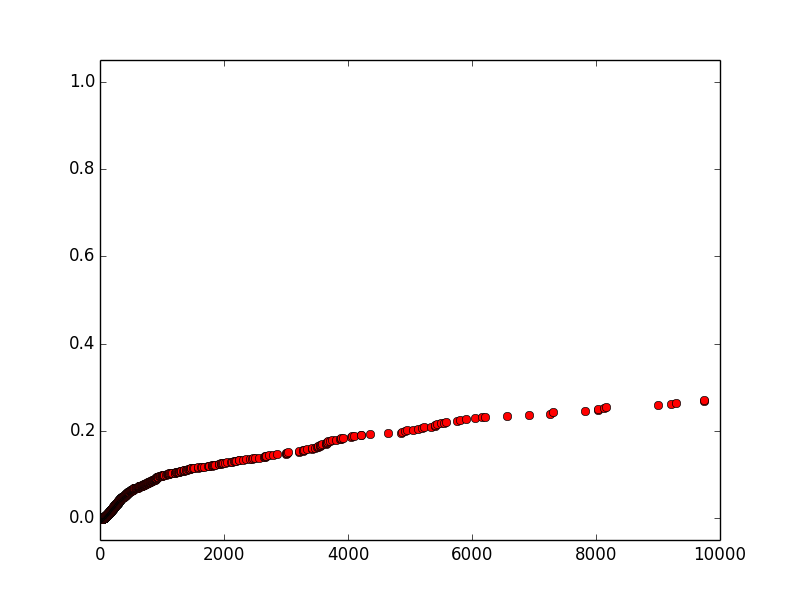
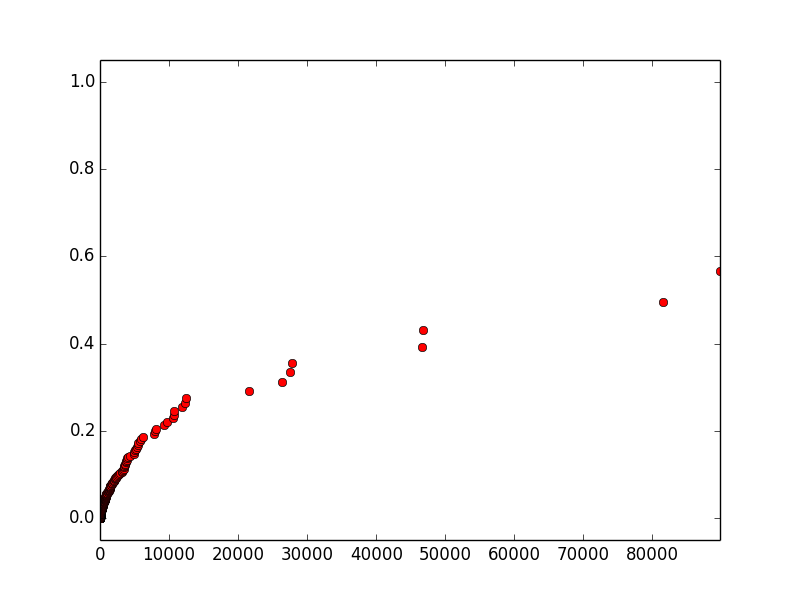
gaps graphs -> steep curves

diff --git a/RealAppAnalysis/updated_chromeanalysis/main.py b/RealAppAnalysis/updated_chromeanalysis/main.py
@@ -8,19 +8,58 @@ import os
 
 
 def main():
+    pp = pprint.PrettyPrinter(indent=2)
+
     for jsonprofile in os.listdir("jsonprofiles"):
         print jsonprofile
         profile = utils.load_profile_from_file("jsonprofiles/" + jsonprofile)
-        ( cpu_pid, cpu_tid ) = cpuparser.process_and_thread_ids(cpuparser.cpuprofile(profile))
+        cpu_profile = cpuparser.cpuprofile(profile)
+
+        ( cpu_pid, cpu_tid ) = cpuparser.process_and_thread_ids(cpu_profile)
+        funcnames_cpuprofile = cpuparser.nodes_functionnames(cpuparser.nodes(cpu_profile))
+
         categorized_profile = parser.parseprofile(profile)
         durationevents = categorized_profile[cpu_pid][cpu_tid]["Dx"]
-        print("the number of durationevents is: " + str( len(durationevents) ) )
-        durations = duranalyzer.get_durations(durationevents)
+        fcalls = duranalyzer.functioncalls_only(durationevents)
+        #getnames_cputhread = duranalyzer.get_funcnames(durationevents)
+        #print("the number of durationevents is: " + str( len(durationevents) ) )
 
+        #print "intersection: " + str(len(funcnames_cpuprofile.intersection(funcnames_cputhread)))
+        #print "in cpuprofile but not eventthread: " + str(len(funcnames_cpuprofile.difference(funcnames_cputhread)))
+        #print "in eventthread but not cpuprofile: " + str(len(funcnames_cputhread.difference(funcnames_cpuprofile)))
+
+        start_times = duranalyzer.get_starttimes(fcalls)
+        #print start_times
+
+        #print "LAST:" + str(start_times[-1])
+        durations = duranalyzer.get_durations(fcalls)
+        longestdur = durations[-2]
+        gaptimes = duranalyzer.gaptimes(fcalls)
+        longestgap = gaptimes[-1]
+
+        (xs0, ys0) = duranalyzer.simpledata(start_times)
+        last = xs0[-1]
+        #print xs0
+        #print ys0
         (xs, ys) = duranalyzer.data1(durations)
         (xs2, ys2) = duranalyzer.data2(durations)
-        duranalyzer.create_graph( utils.newfilepath("outputgraphs/", jsonprofile ,".png"), xs, ys )
-        duranalyzer.create_graph( utils.newfilepath("outputgraphs/", jsonprofile ,"2.png"), xs2, ys2 )
+        (xs3, ys3) = duranalyzer.data1(gaptimes)
+        (xs4, ys4) = duranalyzer.data2(gaptimes)
+        normalized = duranalyzer.normalize_starttimes(start_times)
+        end = normalized[-1]
+        (xs5, ys5) = duranalyzer.distributiondata(normalized)
+        #print xs5
+        #print ys5
+
+
+        duranalyzer.create_graph( utils.newfilepath("outputgraphs/", jsonprofile ,"simple.png"), xs0, ys0, last )
+        duranalyzer.create_graph( utils.newfilepath("outputgraphs/", jsonprofile ,".png"), xs, ys, longestdur )
+        duranalyzer.create_graph( utils.newfilepath("outputgraphs/", jsonprofile ,"2.png"), xs2, ys2, longestdur )
+        duranalyzer.create_graph( utils.newfilepath("outputgraphs/", jsonprofile ,"gaps1.png"), xs3, ys3, longestgap )
+        duranalyzer.create_graph( utils.newfilepath("outputgraphs/", jsonprofile ,"gaps2.png"), xs4, ys4, longestgap )
+        duranalyzer.create_graph( utils.newfilepath("outputgraphs/", jsonprofile ,"gaps3.png"), xs5, ys5, end )
+
+        
 
 
     '''pp = pprint.PrettyPrinter(indent=2)

diff --git a/RealAppAnalysis/updated_chromeanalysis/durationeventsanalyzer.py b/RealAppAnalysis/updated_chromeanalysis/durationeventsanalyzer.py
@@ -8,7 +8,7 @@ Many applications are composed of tons of extremely short callbacks.
 Sometimes there are chains of callbacks that typically execute in short succession.
 If some other action happened in the middle of such a chain, it could cause a concurrency bug.
 
-events = [
+durationevents = [
 {
   { args':
      {
@@ -41,11 +41,35 @@ def main():
     pass
 
 
+
+
+def functioncalls_only(durationevents):
+    fcalls = []
+    for durevent in durationevents:
+        if durevent["name"] == "FunctionCall":
+            fcalls.append(durevent)
+    return fcalls
+
+
 def get_durations(durationevents):
     durations = []
     for durationevent in durationevents:
         durations.append(durationevent["dur"])
     return sorted(durations)
+
+def get_starttimes(durationevents):
+    starttimes = []
+    for durationevent in durationevents:
+        starttimes.append(durationevent["start time"])
+    return sorted(starttimes)
+
+def get_funcnames(durationevents):
+    func_names = []
+    for durevent in durationevents:
+        if durevent["name"] == "FunctionCall":
+            func_names.append(durevent["args"]["data"]["functionName"])
+    return set(func_names)
+
 
 def sort_events_according_to_starttime(durationevents):
     pass
@@ -58,17 +82,17 @@ def total_runtime(sorted_durationevents):
 
 def gaptimes(sorted_durationevents):
     gaps = []
-    for i in range(0, len(durationevents) - 1):
+    for i in range(0, len(sorted_durationevents) - 1):
 
-        f1 = durationevents[i]
-        f2 = durationevents[i + 1]
+        f1 = sorted_durationevents[i]
+        f2 = sorted_durationevents[i + 1]
         f1_end = float(f1["end time"])
         f2_start = float(f2["start time"])
 
         if(f1_end != f2_start):
             gap = f2_start - f1_end
             gaps.append(gap)
-    return gaps
+    return sorted(gaps)
 
 def total_functiontime(durations):
     sum=0
@@ -84,6 +108,33 @@ def total_idletime(gaps):
 
 def idletime_percentage(total_gaptime, total_functiontime):
     return ( total_gaptime / (total_gaptime + total_functiontime) )
+
+def distributiondata(start_times):
+    ys = []
+    number_of_calls = len( start_times )
+    for i in range( number_of_calls ):
+        ys.append( float(i+1)/float(number_of_calls) )
+
+    return (start_times, ys)
+
+def normalize_starttimes(start_times):
+    normalized_starttimes = []
+    for stime in start_times:
+        normalized_starttimes.append(float(stime)-float(start_times[0]))
+    return normalized_starttimes
+
+def simpledata(start_times):
+    xs = []
+    ys = []
+
+    first = start_times[0]
+
+    for stime in start_times:
+        xs.append(float(stime)-float(start_times[0]))
+    for i in xrange( len(start_times) ):
+        ys.append(0)
+
+    return (xs, ys)
 
 
 '''One of the lines is the number of events/function calls with duration less than X,
@@ -119,9 +170,9 @@ def data2(durations):
 
 
 
-def create_graph(filepath, xs, ys):
+def create_graph(filepath, xs, ys, xmax):
     plt.plot(xs, ys, "ro")
-    plt.axis([0, 10000, -0.05, 1.05])
+    plt.axis([0, xmax, -0.05, 1.05])
     plt.savefig(filepath)
     plt.clf()
 

diff --git a/RealAppAnalysis/updated_chromeanalysis/cpuprofileparser.py b/RealAppAnalysis/updated_chromeanalysis/cpuprofileparser.py
@@ -33,7 +33,7 @@ in other words, the following mapping:
 
 As we can see, this allows for tracing a functioncall. E.g. the trace of "func_x" would be "root" -> "program" -> "main" -> "func_x"
 
-Why is this helpful? Not quite sure yet.
+Why is this helpful? It's really not, but it's always fun doing recursion.
 '''
 
 def main():
@@ -64,6 +64,12 @@ def process_and_thread_ids(cpuprofile):
 def tracecall(callhierarchy, funcname):
     pass
 
+
+def nodes_functionnames(nodes):
+    funcnames = []
+    for node in nodes:
+        funcnames.append(node["callFrame"]["functionName"])
+    return set(funcnames)
 
 def getcalls(callhierarchy):
     calls = []

diff --git a/RealAppAnalysis/updated_chromeanalysis/parseprofile.py b/RealAppAnalysis/updated_chromeanalysis/parseprofile.py
@@ -27,7 +27,7 @@ Parse the JSON file from a chrome performance analyzer profile into a Python dat
 
 def main():
     pp = pprint.PrettyPrinter(indent=2)
-    profile = load_profile_from_file("smallsample.json")
+    profile = utils.load_profile_from_file("jsonprofiles/sample.json")
     categorized_events = parseprofile( profile  )
     pp.pprint(categorized_events)
 
